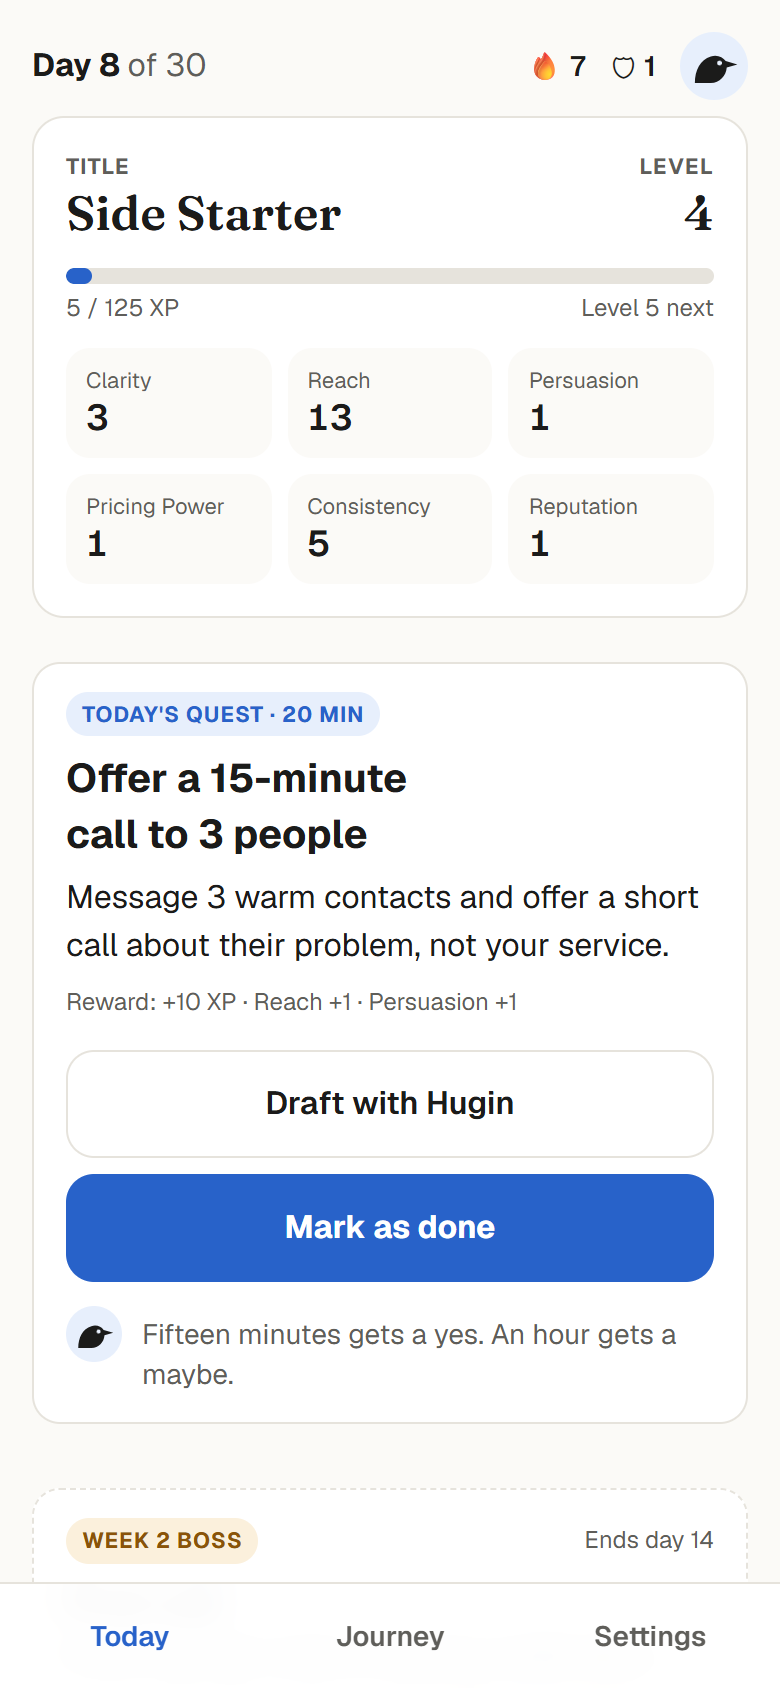
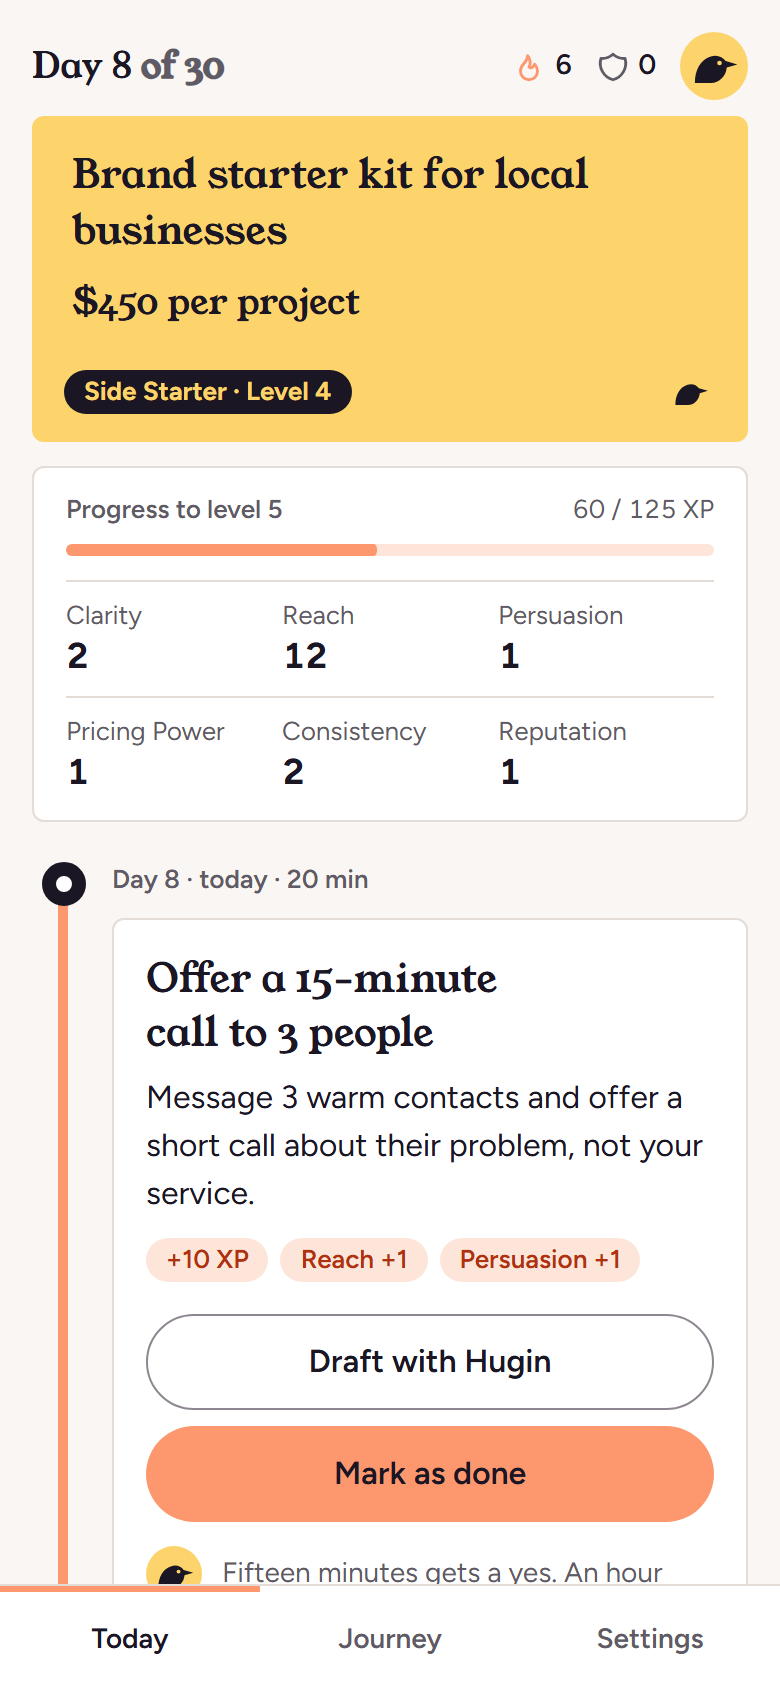
Retake README screenshots 1 to 4 in the new design
Landing, personal plan, paywall and Today (day 8, Side Starter, level 4) at 390x844 @2x, light theme. The Hugin drafts shot (05) is still the old design: drafting fails while the Gemini backup model is retired.

diff --git a/README.md b/README.md
@@ -21,11 +21,11 @@ Built by Team 4 (Jandos, Temirlan) for the Zimran IT School capstone.
 
 | Landing | Personal plan | Paywall |
 | --- | --- | --- |
-| ![Landing page hero with the app preview](docs/screenshots/01-landing.png) | ![Personal plan: service, price, first buyers and four weeks](docs/screenshots/02-plan.png) | ![Paywall with three plans, billing timeline and unticked renewal consent](docs/screenshots/03-paywall.png) |
+| ![Landing page hero with the old work card and the new sunshine business card](docs/screenshots/01-landing.png) | ![Personal plan: your service and price on a business card, first buyers and the four weeks](docs/screenshots/02-plan.png) | ![Paywall with three plans, billing timeline and unticked renewal consent](docs/screenshots/03-paywall.png) |
 
 | Today, day 8 | Drafts from Hugin |
 | --- | --- |
-| ![Status window with title, level, XP and six stats, and today's quest](docs/screenshots/04-app-today.png) | ![Three outreach messages drafted by Hugin, each with a Copy button](docs/screenshots/05-hugin-drafts.png) |
+| ![Your card with service, price, title and level, then XP, six stats and today's quest](docs/screenshots/04-app-today.png) | ![Three outreach messages drafted by Hugin, each with a Copy button](docs/screenshots/05-hugin-drafts.png) |
 
 ## Tech stack
 
